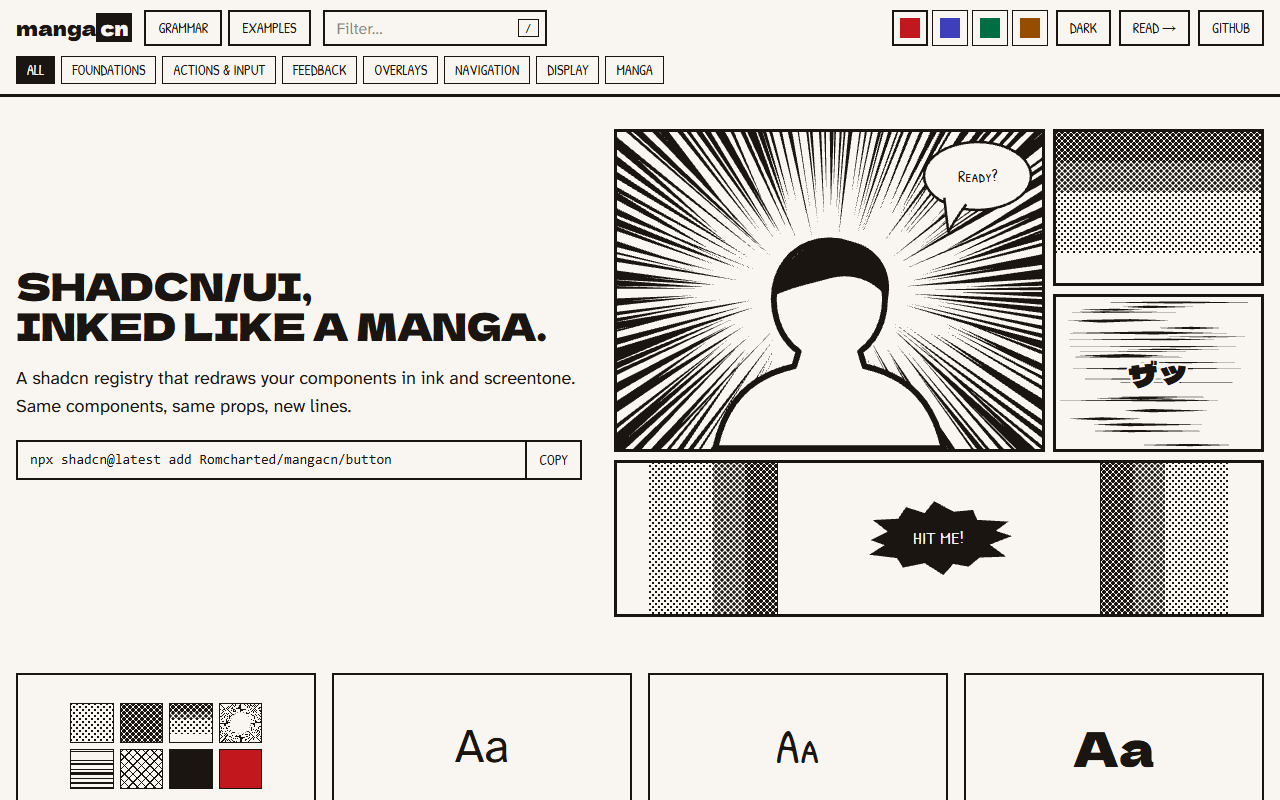
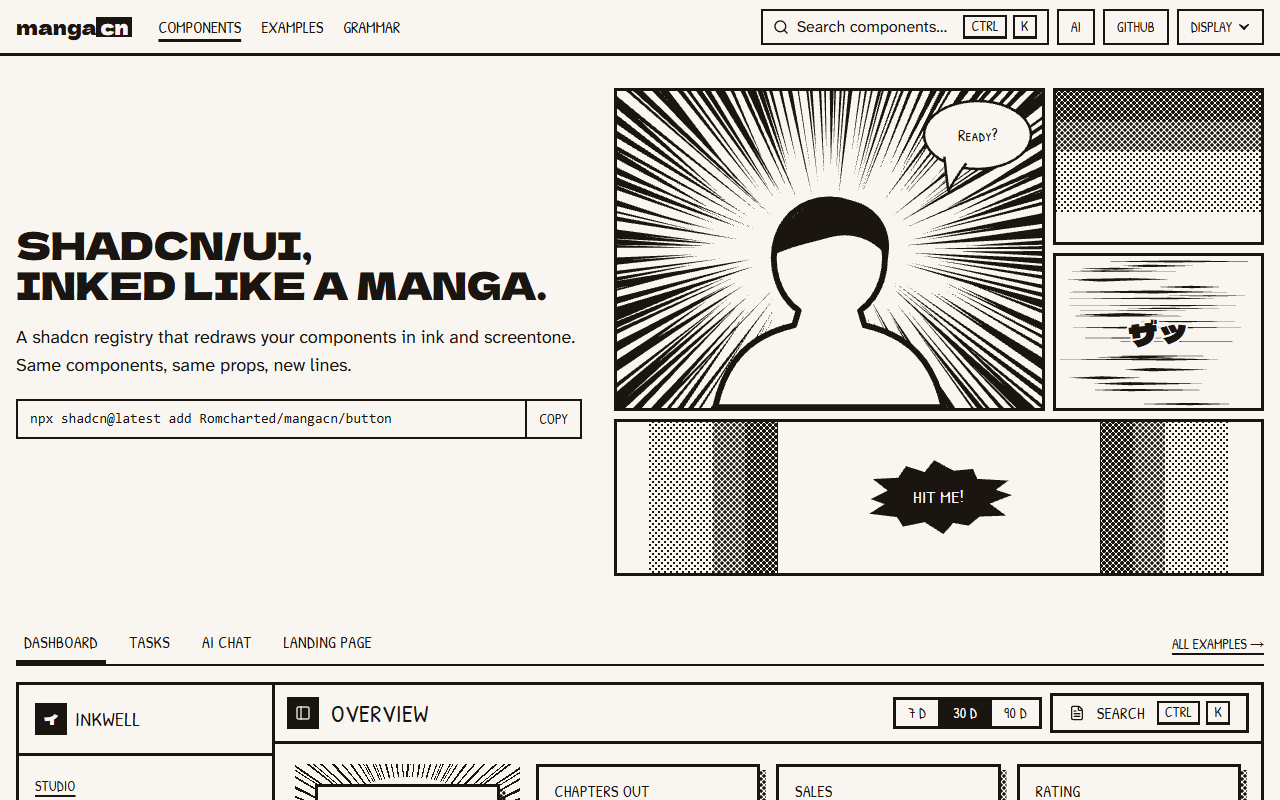
docs(readme): nouvelle capture d accueil, animation HIT ME, Landing page, AI chat et Catalog, liens vers DOMAIN en attendant l adresse

Changed region(s): [[0.0, 0.0, 1.0, 1.0], [0.9688, 0.9688, 1.0, 1.0]]

diff --git a/README.md b/README.md
@@ -4,18 +4,20 @@
 redraws your shadcn/ui components in ink and screentone: black and white, sharp lines, tones instead of grey,
 speed lines, and one accent colour you choose.
 
-[Showcase](https://romcharted.github.io/mangacn/) ·
-[Grammar](https://romcharted.github.io/mangacn/#grammar) ·
-[Examples](https://romcharted.github.io/mangacn/#examples) ·
-[llms.txt](https://romcharted.github.io/mangacn/llms.txt)
+[Showcase](https://DOMAIN/) ·
+[Grammar](https://DOMAIN/#grammar) ·
+[Examples](https://DOMAIN/#examples) ·
+[llms.txt](https://DOMAIN/llms.txt)
 
-[![The mangacn showcase: “shadcn/ui, inked like a manga.” next to a page of three panels](docs/hero.png)](https://romcharted.github.io/mangacn/)
+> `DOMAIN` stands for the showcase address, set when the site goes live.
+
+[![The mangacn showcase: “shadcn/ui, inked like a manga.” next to a page of three panels](docs/hero.png)](https://DOMAIN/)
 
 It does not fork shadcn. Each restyled component is a thin file that imports **your** shadcn component, adds
 classes and `data-*` attributes, and re-exports it with the same props. It works whether your shadcn project
 is built on Radix or on Base UI.
 
-![A button is hit and answers “DON!”, a manga page switches between three layouts and reads right to left, then a line is sent in a conversation](docs/demo.gif)
+![A button is hit and answers “DON!”, a landing page jumps to its pricing and switches billing, an AI chat types its answer, then a catalog changes shelf and finds a title](docs/demo.gif)
 
 ## Install
 
@@ -217,7 +219,7 @@ npx shadcn@latest search Romcharted/mangacn --query bubble
 Every component draws its motion from the same eight gestures, written once in `base`: case (G1), flat (G2),
 hover (G3), impact (G4), pop (G5), bubble (G6), running line (G7) and mark (G8). They move in steps at
 12 frames per second and stand still under `prefers-reduced-motion`. The
-[Grammar page](https://romcharted.github.io/mangacn/#grammar) shows each one; [AGENTS.md](AGENTS.md) has the
+[Grammar page](https://DOMAIN/#grammar) shows each one; [AGENTS.md](AGENTS.md) has the
 rules.
 
 ## Dark mode, accent colour, reading order
@@ -230,14 +232,14 @@ rules.
 ## Use with AI assistants
 
 - **llms.txt** lists every item with its install command, main props and a minimal example:
-  `https://romcharted.github.io/mangacn/llms.txt`.
+  `https://DOMAIN/llms.txt`.
 - **shadcn MCP server.** The MCP server reads the registries declared in `components.json`. Add a namespace
   that points at the JSON files this repo publishes:
 
   ```json
   {
     "registries": {
-      "@mangacn": "https://romcharted.github.io/mangacn/r/{name}.json"
+      "@mangacn": "https://DOMAIN/r/{name}.json"
     }
   }
   ```
